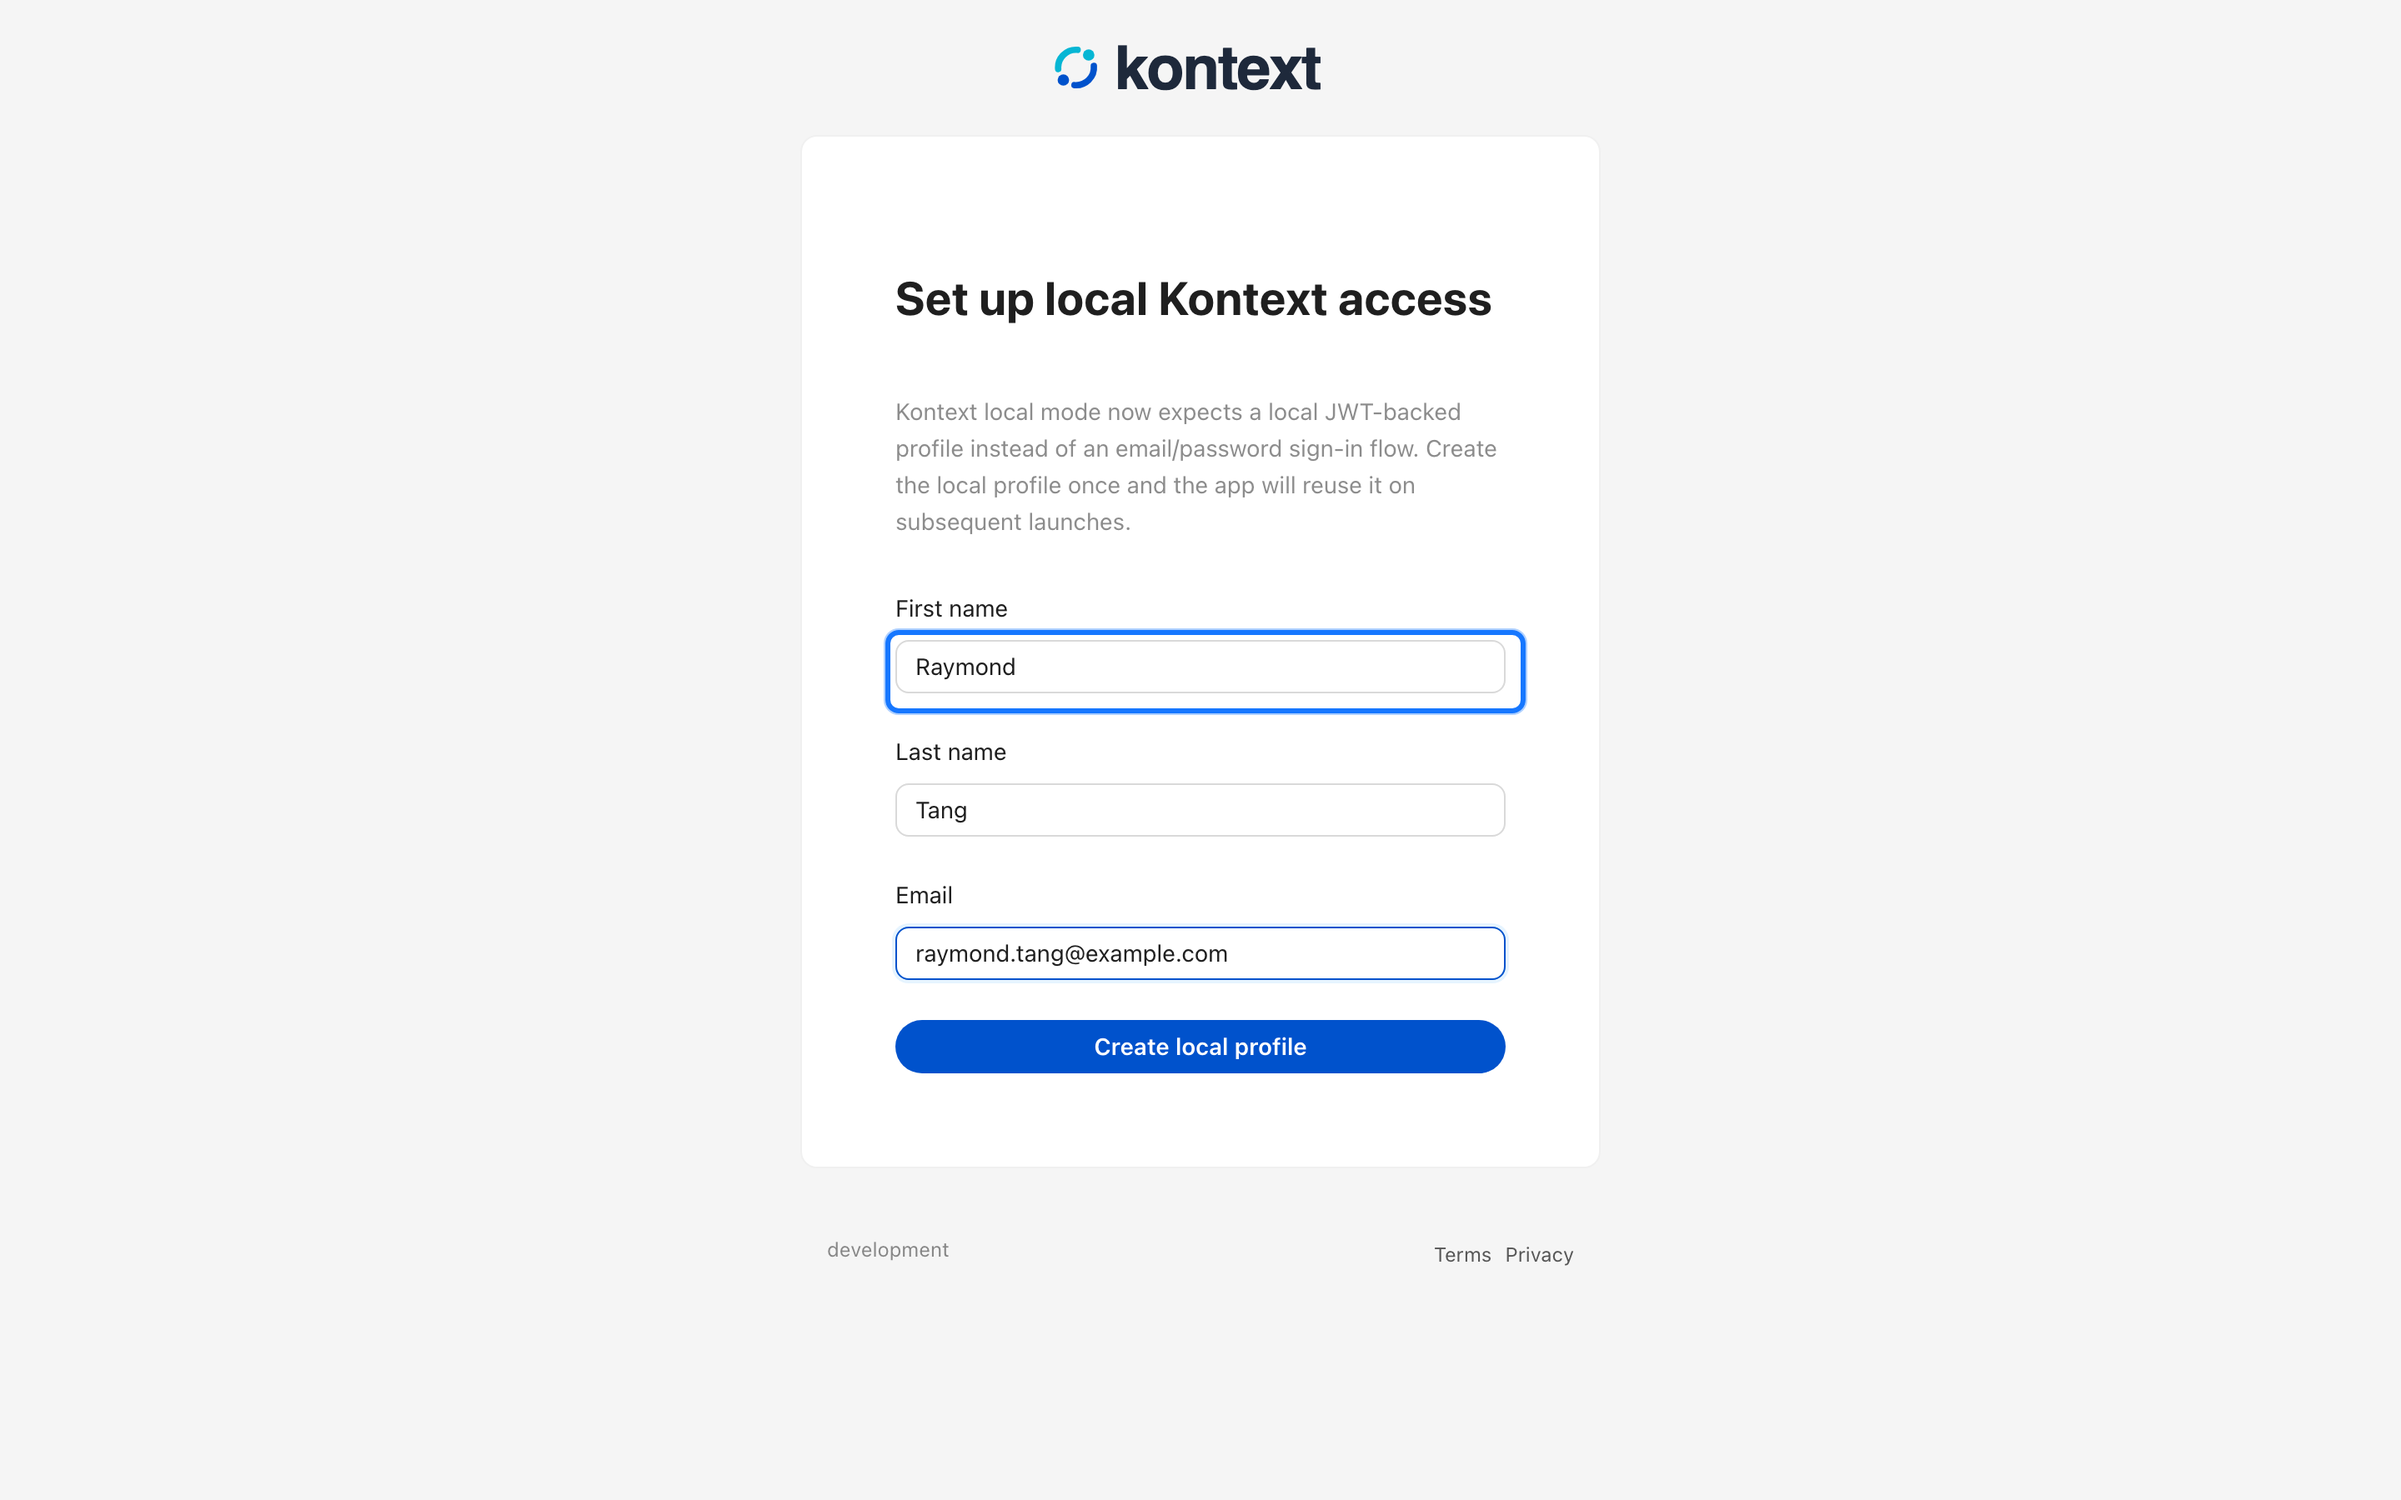
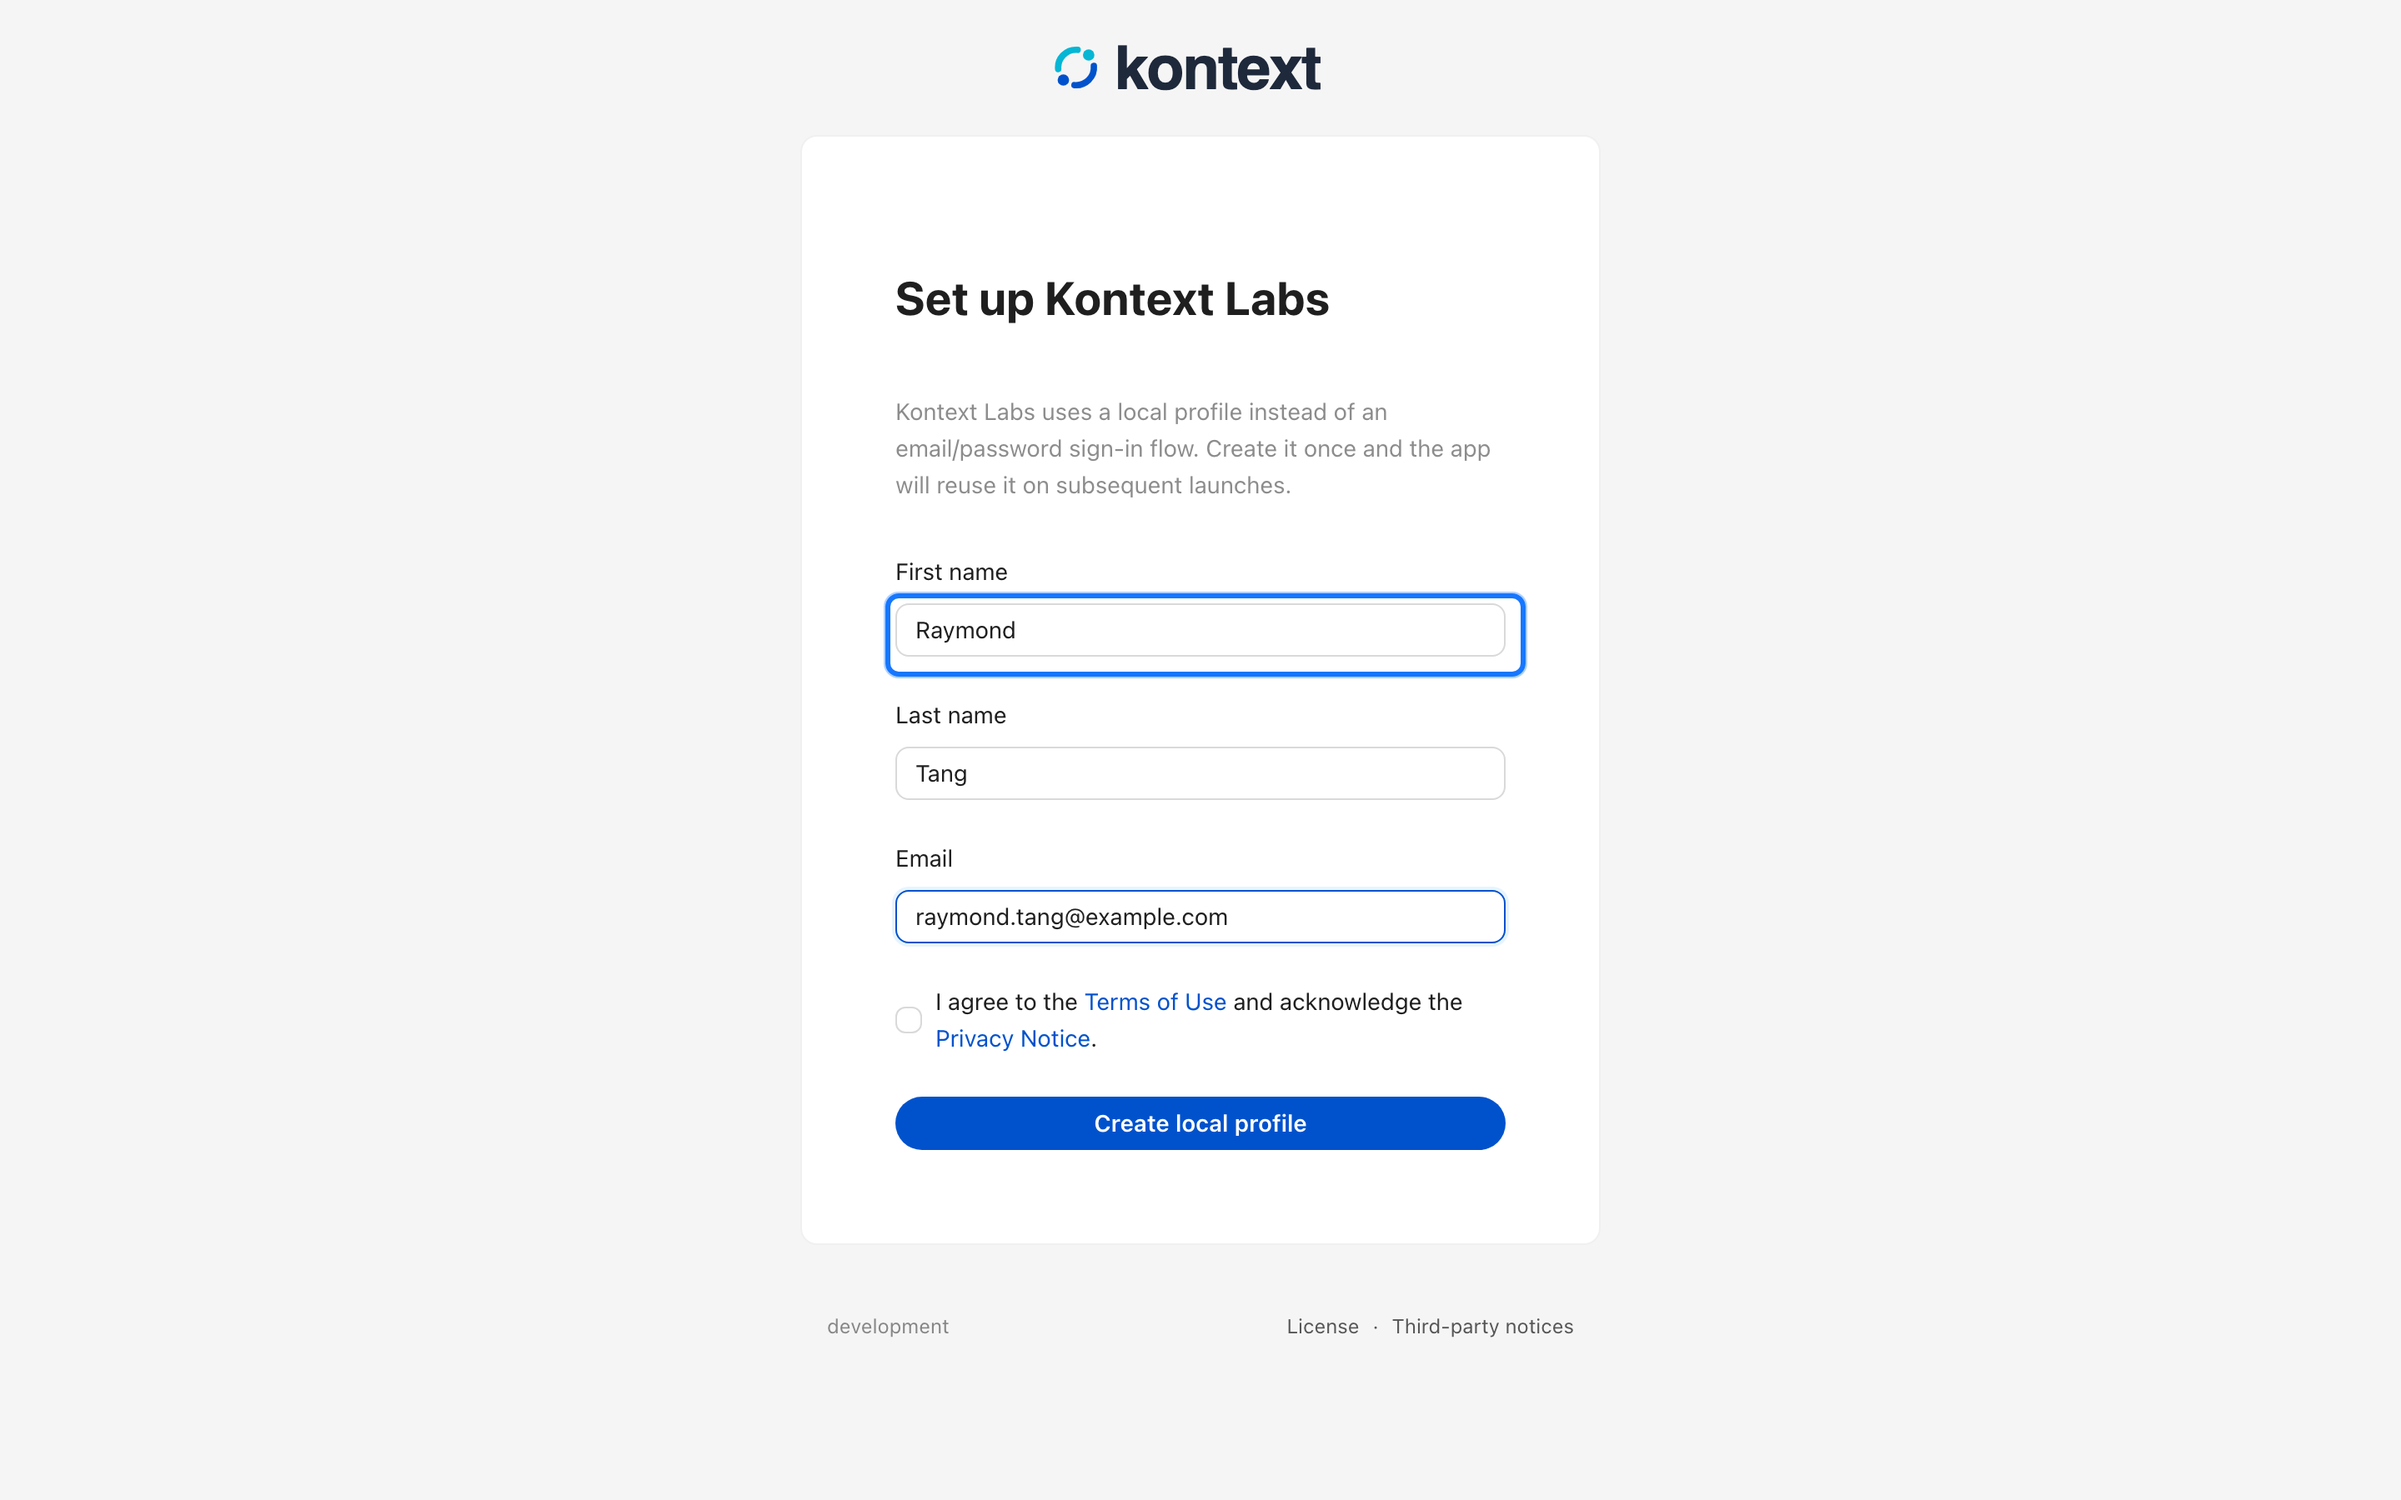
docs: align terminology and recapture home screenshots
- Use "LLM Providers", "Home", "Default Lakehouse", and "Create Project" consistently
- Fix the setup and home capture targets so the guide regenerates cleanly
- Recapture the install and project screenshots after the home redesign

diff --git a/docs/user-guide/03-connect-a-data-source.md b/docs/user-guide/03-connect-a-data-source.md
@@ -1,11 +1,11 @@
 # Connect a data source
 
-A project reads data through data sources. Every project has one internal
+A project reads data through data sources. Every project has one default
 lakehouse, and you can add external databases beside it.
 
-## The internal lakehouse
+## The default lakehouse
 
-**Default Lakehouse** is an Iceberg catalog that Kontext manages for the
+**Default Lakehouse** is an Iceberg catalog that Kontext Labs manages for the
 project. It needs no credentials, it is always present, and it is where imported
 files and generated artifacts are registered. Agents and the query editor can
 read it without extra setup, which is why a new project can answer questions
@@ -15,7 +15,7 @@ before you connect anything else.
 
 | Source | Type | Notes |
 | --- | --- | --- |
-| Internal Iceberg | Lakehouse | Managed by Kontext; always present |
+| Default Lakehouse | Lakehouse | Managed Iceberg catalog; always present |
 | DuckDB | SQL, file-based | Point it at a `.duckdb` file |
 | SQLite | SQL, file-based | Point it at a `.db` file |
 | PostgreSQL | SQL, server | Host, port, database, credentials |
@@ -27,8 +27,8 @@ before you connect anything else.
 | BigQuery | SQL, cloud | Definition only in this runtime; queries are not executed yet |
 | HTTP API | API | Definition only in this runtime; queries are not executed yet |
 
-Internal Iceberg, DuckDB, SQLite, PostgreSQL, and MySQL are fully usable in local
-mode. SQL Server, Oracle, Teradata, Snowflake, BigQuery, and HTTP API can be
+Default Lakehouse (Iceberg), DuckDB, SQLite, PostgreSQL, and MySQL are fully
+usable in local mode. SQL Server, Oracle, Teradata, Snowflake, BigQuery, and HTTP API can be
 registered so the project records how they are reached, but this runtime does
 not yet run queries against them.
 

diff --git a/docs/user-guide/02-create-a-project.md b/docs/user-guide/02-create-a-project.md
@@ -15,11 +15,11 @@ details tabs.
 ## Find a project
 
 The search box matches project names, and **Filter by role** narrows the list to
-the projects where you have a chosen role. **Reset** clears both filters.
+the projects where you have a chosen role. **Clear** removes both filters.
 
-<!-- docs:capture 02-create-a-project#2 hash=561ec1548040 -->
-1. The search box filters the project list by name. **Reset** clears the search and role filters.
-   ![The search box filters the project list by name. Reset clears the search and role filters.](assets/02-create-a-project/project-search.png)
+<!-- docs:capture 02-create-a-project#2 hash=51519e286b72 -->
+1. The search box filters the project list by name. **Clear** removes the search and role filters.
+   ![The search box filters the project list by name. Clear removes the search and role filters.](assets/02-create-a-project/project-search.png)
 2. **Filter by role** limits the list to projects where you have a given role, such as owner, admin, contributor, or reader.
    ![Filter by role limits the list to projects where you have a given role, such as owner, admin, contributor, or reader.](assets/02-create-a-project/project-role-filter.png)
 <!-- /docs:capture -->

diff --git a/docs/user-guide/08-chat-with-an-agent.md b/docs/user-guide/08-chat-with-an-agent.md
@@ -36,7 +36,7 @@ The same conversation can explore a project, write SQL, and build output. Some
 prompts to start from:
 
 - **Suggest an agenda** — "Suggest three questions based on the data in the project."
-- **Inspect the project** — "How many tables are in the data lake?"
+- **Inspect the project** — "How many tables are in the lakehouse?"
 - **Write SQL** — "Write a query to show transaction volume by year and month."
 - **Run the query** — "Execute the above query with a reasonable limit for previewing results."
 - **Ask a data question** — "Which age group has the highest number of customers?"

diff --git a/docs/user-guide/10-connect-a-model-provider.md b/docs/user-guide/10-connect-a-model-provider.md
@@ -32,7 +32,7 @@ can tell two connections to the same provider apart.
 
 ## Add or edit a provider
 
-Open **LLM Providers** from the user console and select **Add Provider**. Choose
+Open **LLM Providers** from **Home** and select **Add Provider**. Choose
 the provider type, pick or type the model, give the connection a name, then fill
 in the endpoint or credentials that provider requires. **Enabled** makes the
 connection usable; **Default Provider** makes it the first choice for new chats.

diff --git a/docs/user-guide/01-install-and-start.md b/docs/user-guide/01-install-and-start.md
@@ -68,7 +68,7 @@ as the app, for example <http://localhost:8000/setup>.
 
 ## Connect a model provider
 
-Kontext does not bundle a model. After signing in, open **Model providers** and
+Kontext Labs does not bundle a model. After signing in, open **LLM Providers** and
 add a local or cloud provider, then choose the default model for your work. See
 [Connect a model provider](10-connect-a-model-provider.md) for the supported
 providers and settings.

diff --git a/docs/user-guide/README.md b/docs/user-guide/README.md
@@ -16,7 +16,7 @@ jump to the page for the task you are doing.
 
 ## Data
 
-- [Connect a data source](03-connect-a-data-source.md) — Connect an external database or inspect the internal lakehouse.
+- [Connect a data source](03-connect-a-data-source.md) — Connect an external database or inspect the default lakehouse.
 - [Browse and manage files](04-browse-and-open-files.md) — Upload, organize, search, and open project files.
 
 ## Notebooks

diff --git a/README.md b/README.md
@@ -7,7 +7,7 @@
 
 <h1 align="center">Kontext Labs</h1>
 
-**Kontext Labs is a local, open-source AI data workspace.** Ask questions in
+**Kontext Labs is a local-first, open-source AI data workspace.** Ask questions in
 plain language and a team of agents queries your files and databases, then
 returns SQL results, charts, and reproducible notebooks. Bring your own model —
 local or cloud — and keep the workspace on your machine.
